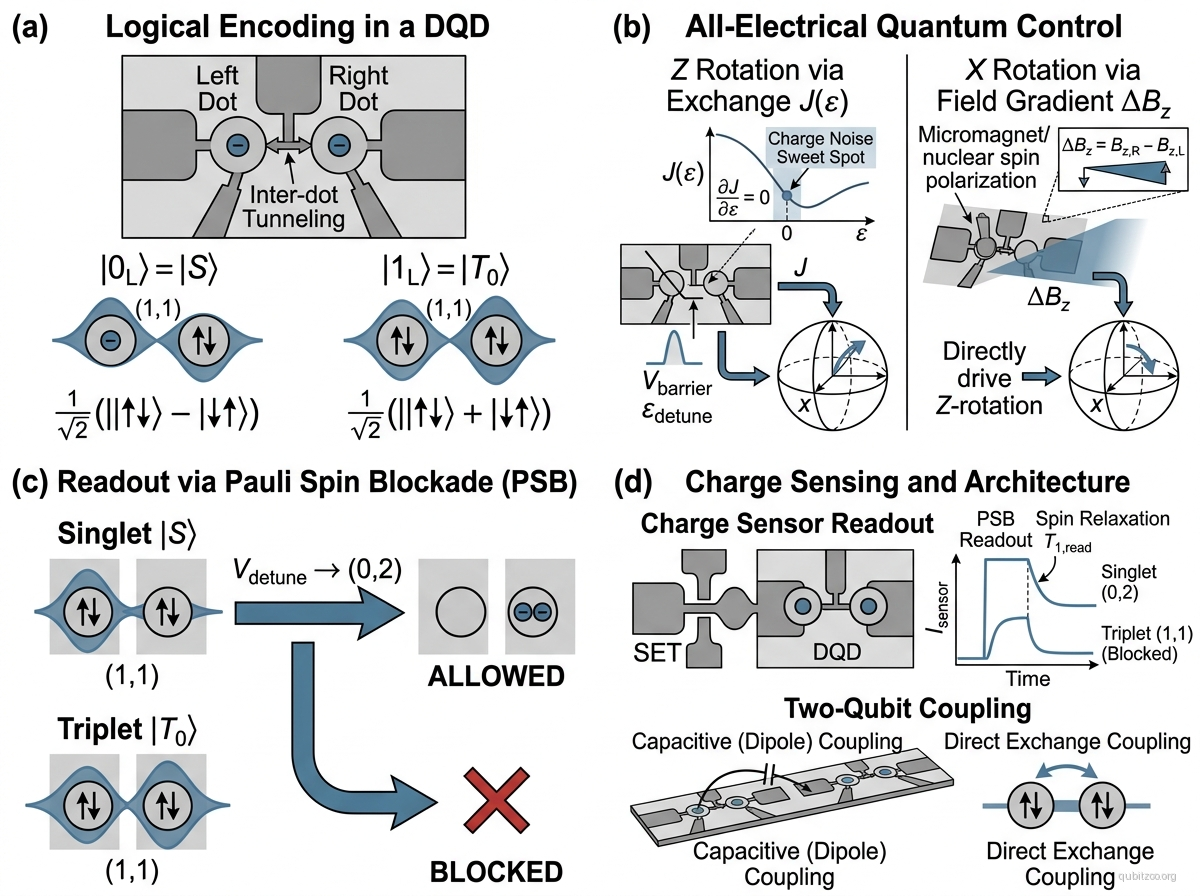
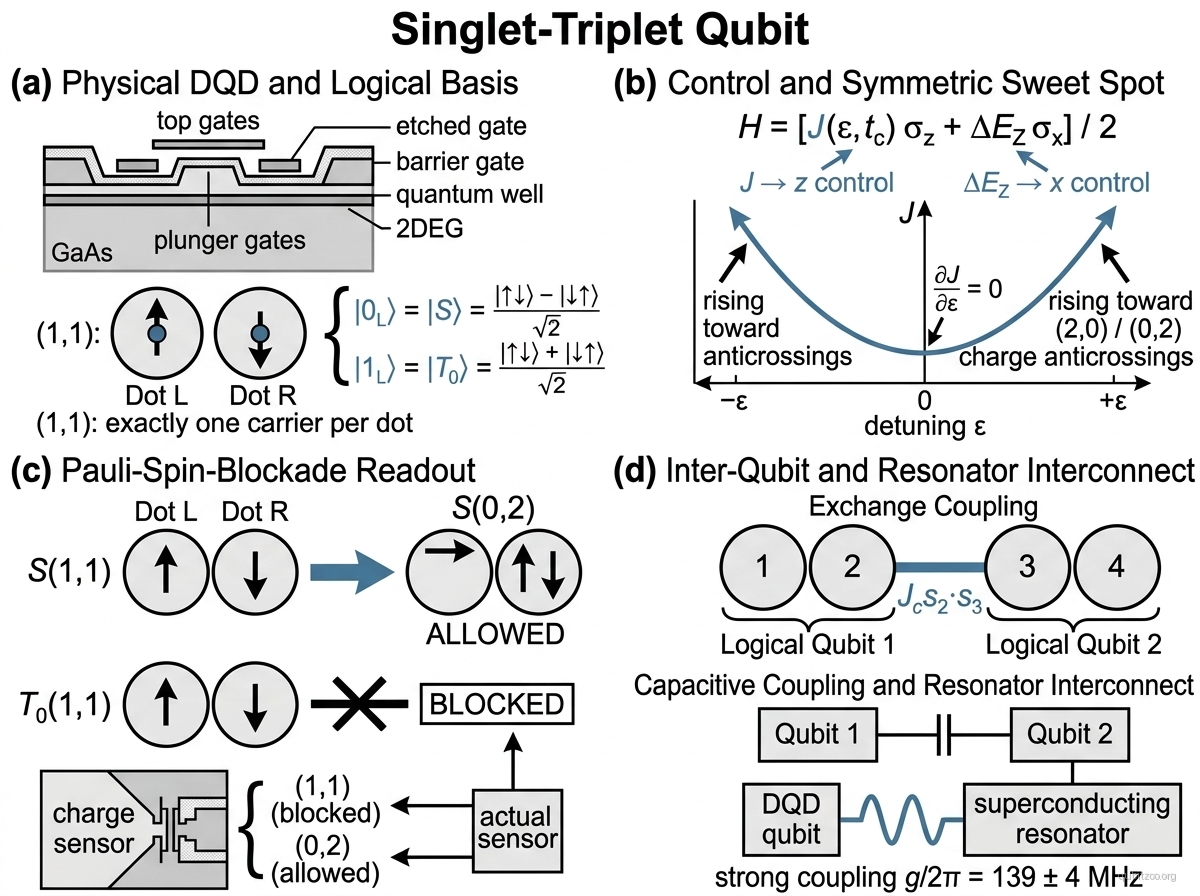
Deep-audit singlet-triplet qubit figure and readout

diff --git a/content/Zoo/singlet-triplet-qubit.md b/content/Zoo/singlet-triplet-qubit.md
@@ -12,16 +12,16 @@ keywords:
 - spin
 - semiconductor
 - double-quantum-dot
-last_updated: '2026-09-04'
+last_updated: '2026-09-05'
 generated_by: seed-ingest-v1
 extracted_by: airtable-seed
-verified_by: scibok-deep-audit-2026-09-04
-figure_reviewed: false
+verified_by: scibok-deep-audit-2026-09-05
+figure_reviewed: true
 figure_renderer: "nano-banana-2"
 figure_model: "google/gemini-3.1-flash-image-preview"
 figure_provenance: "Figures/singlet-triplet-qubit-figure.provenance.json"
-figure_reviewed_by: "Scibok daily deep audit 2026-09-04"
-figure_reviewed_at: "2026-09-04T14:20:52Z"
+figure_reviewed_by: "Scibok daily deep audit 2026-09-05"
+figure_reviewed_at: "2026-09-05T14:08:05.609734+00:00"
 ---
 
 ## Description
@@ -89,6 +89,7 @@ where $\alpha$ depends on inter-DQD capacitance and on the charge admixture of t
 - **Bøttcher et al. (2022)**: Parametric longitudinal coupling to high-impedance SC resonator
 - **Ungerer et al. (2024)**: Strong single-photon coupling in an InAs nanowire $S$–$T$ device, $g/2\pi=139\pm4$ MHz
 - **Song et al. (2024)**: ~100 MHz field-gradient-driven oscillations with quality factor $Q>580$ in $^{28}$Si/SiGe
+- **Ma et al. (2024)**: Enhanced-latching Pauli-spin-blockade readout in a Si-MOS DQD with 97.59% average experimental state-readout fidelity by threshold classification
 - **Zhang et al. (2025)**: Universal control of four neighboring $S$–$T_-$ hole-spin qubits in a $2\times4$ germanium dot array; this is a related polarized-triplet variant, not the $S$–$T_0$ encoding defined above
 - **Tsoukalas et al. (2026)**: Resonantly driven germanium hole $S$–$T_0$ qubit with 99.68(2)% average gate fidelity; continuous dressing extended rotating-frame coherence to $T_{2\rho}^*=20.3\,\mu\text{s}$ while retaining 99.63(7)% gates
 
@@ -110,6 +111,7 @@ where $\alpha$ depends on inter-DQD capacitance and on the charge admixture of t
 
 ### Readout
 - C. Barthel et al., "Rapid single-shot measurement of a singlet-triplet qubit," [PRL 103, 160503 (2009)](https://doi.org/10.1103/PhysRevLett.103.160503)
+- R.-L. Ma et al., "Singlet-triplet-state readout in silicon metal-oxide-semiconductor double quantum dots," [Physical Review Applied 21, 034022 (2024)](https://doi.org/10.1103/PhysRevApplied.21.034022), [arXiv:2309.09723](https://arxiv.org/abs/2309.09723)
 
 ### Resonator coupling
 - C. G. L. Bøttcher et al., "Parametric longitudinal coupling between a high-impedance superconducting resonator and a semiconductor quantum dot singlet-triplet spin qubit," [Nature Commun. 13, 4773 (2022)](https://doi.org/10.1038/s41467-022-32236-w)
@@ -127,6 +129,7 @@ where $\alpha$ depends on inter-DQD capacitance and on the charge admixture of t
 - [[bttcher-2022-parametric-longitudinal-coupling]]
 - [[levy-2002-universal-computation-spin]]
 - [[loss-divincenzo-1998-quantum-dots]]
+- [[ma-2024-singlet-triplet-state-readout]]
 - [[martins-2016-symmetric-exchange-gates]]
 - [[maune-2012-coherent-singlet-triplet]]
 - [[nichol-2017-high-fidelity-entangling-gate]]
@@ -163,6 +166,6 @@ where $\alpha$ depends on inter-DQD capacitance and on the charge admixture of t
 | Gate fidelity (1Q) | 99.68(2)% bare resonant; 99.63(7)% dressed | Average physical-gate fidelity for a Ge hole $S$–$T_0$ qubit | [Tsoukalas et al. 2026](https://doi.org/10.1038/s41467-025-65569-3) |
 | Entangling-gate fidelity (2Q) | 90% | Capacitively coupled GaAs $S$–$T_0$ qubits; process estimate from self-consistent tomography | [Nichol et al. 2017](https://doi.org/10.1038/s41534-016-0003-1) |
 | Representative 1Q gate time | 327 ns bare; 500 ns dressed | $X_\pi$ gates in the 2026 Ge hole device | [Tsoukalas et al. 2026](https://doi.org/10.1038/s41467-025-65569-3) |
-| Readout fidelity | $>90\%$ in ~7 μs | Pauli spin blockade plus charge sensing in GaAs | [Barthel et al. 2009](https://doi.org/10.1103/PhysRevLett.103.160503) |
+| Readout fidelity | 97.59% average experimental state fidelity (Si-MOS); $>90\%$ in ~7 μs (GaAs) | Enhanced-latching Pauli spin blockade with threshold classification in Si-MOS; the separately reported 99.67% machine-learning number was obtained on simulated traces and is not used as the experimental benchmark | [Ma et al. 2024](https://doi.org/10.1103/PhysRevApplied.21.034022); [Barthel et al. 2009](https://doi.org/10.1103/PhysRevLett.103.160503) |
 | Spin-photon coupling | $g/2\pi=139\pm4$ MHz | Strong-coupling InAs nanowire experiment; $\gamma/2\pi=116\pm7$ MHz and $\kappa/2\pi=19.8\pm0.2$ MHz | [Ungerer et al. 2024](https://doi.org/10.1038/s41467-024-45235-w) |
 | Scaled control milestone | Four neighboring $S$–$T_-$ qubits; 1Q fidelities 99.49(8)–99.84(1)% | Related polarized-triplet encoding in a $2\times4$ Ge hole array; Bell-state fidelities 73(1)–90(1)% | [Zhang et al. 2025](https://doi.org/10.1038/s41565-024-01817-9) |

diff --git a/content/References/ma-2024-singlet-triplet-state-readout.md b/content/References/ma-2024-singlet-triplet-state-readout.md
@@ -1,0 +1,23 @@
+---
+title: Singlet-triplet-state readout in silicon metal-oxide-semiconductor double quantum dots
+authors: [Rong-Long Ma, Sheng-Kai Zhu, Zhen-Zhen Kong, Tai-Ping Sun, Ming Ni, Yu-Chen Zhou, Yuan Zhou, Gang Luo, Gang Cao, Gui-Lei Wang, Hai-Ou Li, Guo-Ping Guo]
+year: 2024
+journal: Physical Review Applied
+doi: 10.1103/PhysRevApplied.21.034022
+arxiv_id: '2309.09723'
+type: reference
+generated_by: scibok-deep-audit
+last_updated: '2026-09-05'
+---
+Enhanced-latching Pauli-spin-blockade readout of singlet and triplet states in a silicon MOS double quantum dot.
+
+## Key Results
+- 97.59% average experimental singlet-triplet state-readout fidelity using threshold classification.
+- The separately quoted 99.67% machine-learning fidelity applies to simulated single-shot traces, not the experimental benchmark.
+
+## Links
+- **Journal:** [Physical Review Applied](https://doi.org/10.1103/PhysRevApplied.21.034022)
+- **arXiv:** [2309.09723](https://arxiv.org/abs/2309.09723)
+
+## Zoo Links
+- [[singlet-triplet-qubit]]
